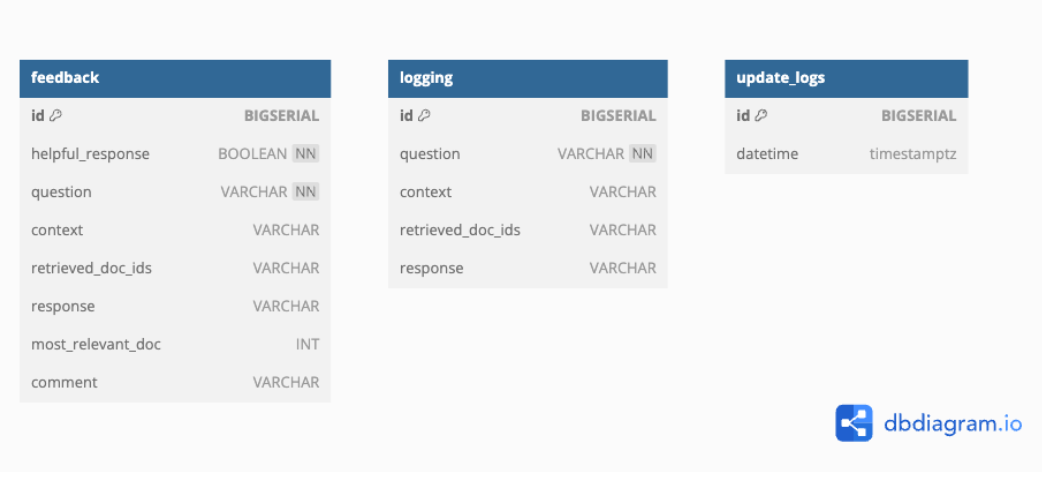
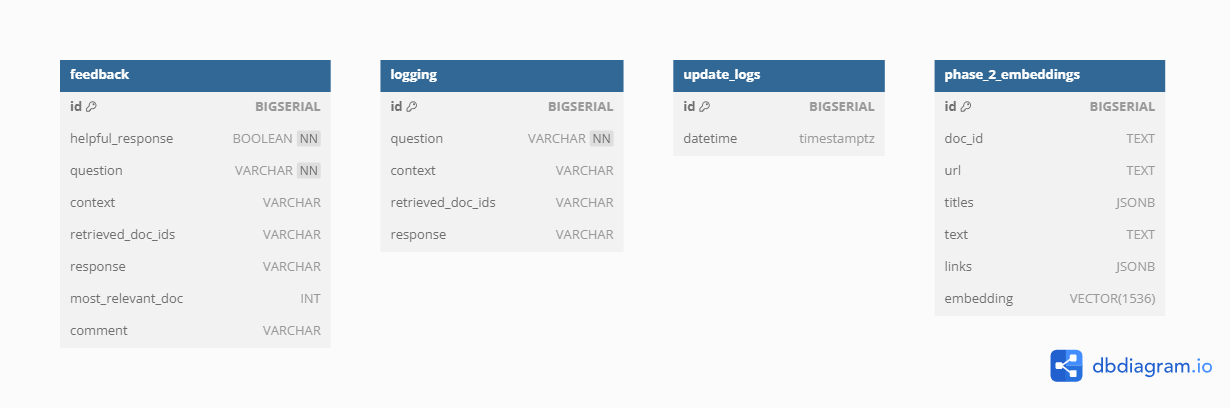
Added script to test feedback feature. Updated Architecture Diagram and steps. Updated Database Schema.

diff --git a/test_answer_feedback.py b/test_answer_feedback.py
@@ -1,0 +1,97 @@
+from selenium import webdriver
+from selenium.webdriver.common.by import By
+from selenium.webdriver.common.keys import Keys
+from selenium.webdriver.support.ui import WebDriverWait
+from selenium.webdriver.support import expected_conditions as EC
+from selenium.webdriver.chrome.service import Service
+from selenium.webdriver.chrome.options import Options
+from webdriver_manager.chrome import ChromeDriverManager
+import time
+import os
+
+# Setup WebDriver (Chrome in this example, but you can use any browser)
+service = Service(ChromeDriverManager().install())
+driver = webdriver.Chrome(service=service)
+
+# URL of the Flask application
+BASE_URL = "https://student-advising-demo.us-west-2.elasticbeanstalk.com"
+
+# Flag to not login again
+ALREADY_LOGGED_IN = False
+
+# List of questions to submit
+questions = [
+    "Can I add a minor in fourth year?",
+    "When do I have to apply to add a commerce minor?",
+    "I have an average of 54% and I have failed two courses this term. I haven't failed a course before this. Can I continue?",
+    "My average was 40%, what happens now?",
+    "I missed my exam because I had covid, what do I do?",
+    "I slept through my exam, what do I do?",
+    "Does ENGL 110 count for the arts requirement?",
+    "Can I take PSYC 120 for the arts requirement?",
+    "Does physics 100 count for the arts requirement?",
+    "CPSC 110 waitlist is full, what do I do?",
+    "I am in second year major chemistry, do I have to take MATH 221?",
+    "I am in second year major chemistry, do I need to take any biology courses?",
+    "Can I take CHEM 233 instead of CHEM 203?"
+]
+
+def submit_question_and_feedback(question):
+    global ALREADY_LOGGED_IN
+    
+    # Navigate to the home page
+    driver.get(BASE_URL)
+
+    # Login to the application if needed
+    if not ALREADY_LOGGED_IN:
+        WebDriverWait(driver, 10).until(EC.presence_of_element_located((By.NAME, "username"))).send_keys(os.environ["USERNAME"])
+        WebDriverWait(driver, 10).until(EC.presence_of_element_located((By.NAME, "password"))).send_keys(os.environ["PASSWORD"], Keys.RETURN)
+        ALREADY_LOGGED_IN = True
+
+    # Wait for the page to load
+    WebDriverWait(driver, 10).until(EC.presence_of_element_located((By.ID, "question")))
+
+    # Fill out the question form
+    question_textarea = driver.find_element(By.ID, "question")
+    question_textarea.send_keys(question)
+
+    # Submit the form
+    submit_button = driver.find_element(By.ID, "submit")
+    driver.execute_script("arguments[0].scrollIntoView(true);", submit_button)
+    WebDriverWait(driver, 10).until(EC.element_to_be_clickable((By.ID, "submit")))
+    driver.execute_script("arguments[0].click();", submit_button)
+
+    # Wait for the answer page to load
+    WebDriverWait(driver, 10).until(EC.presence_of_element_located((By.ID, "feedback-form")))
+
+    # Provide feedback
+    feedback_yes_button = driver.find_element(By.ID, "feedback-yes")
+    WebDriverWait(driver, 10).until(EC.element_to_be_clickable((By.ID, "feedback-yes")))
+    driver.execute_script("arguments[0].click();", feedback_yes_button)
+
+    # Wait for feedback form to be visible
+    WebDriverWait(driver, 5).until(EC.visibility_of_element_located((By.ID, "feedback-comments")))
+
+    # Fill out the feedback form
+    feedback_comments = driver.find_element(By.ID, "feedback-comments")
+    feedback_comments.send_keys("This feedback is submitted from a test script. Please ignore.")
+
+    # Select most relevant reference (if available)
+    feedback_reference_select = driver.find_element(By.NAME, "feedback-reference-select")
+    feedback_reference_select.send_keys(Keys.DOWN)  # Selecting the first option (None or first reference)
+
+    # Submit the feedback form
+    feedback_submit_button = driver.find_element(By.ID, "feedback-submit")
+    WebDriverWait(driver, 10).until(EC.element_to_be_clickable((By.ID, "feedback-submit")))
+    driver.execute_script("arguments[0].click();", feedback_submit_button)
+
+    # Optionally, wait to ensure feedback is submitted before continuing
+    time.sleep(2)
+
+def main():
+    for question in questions:
+        submit_question_and_feedback(question)
+    driver.quit()
+
+if __name__ == "__main__":
+    main()

diff --git a/docs/ArchitectureDesign.md b/docs/ArchitectureDesign.md
@@ -234,20 +234,48 @@ Various components of the infrastructure are placed inside a VPC for a more isol
 
 Information related to VPC networking specifications can be separately found [here](NetworkingSpecifications.md). Please familiarize yourself with the services in the architecture first before going through the Networking document mentioned above.
 
-**Question Answering**
+**Text Generation**
 
-1. A user (eg. a student) interacts with the web UI of the application hosted on AWS Elastic Beanstalk, and submits a query. 
+1. A user (eg. a student) interacts with the web UI of the application hosted on Amazon Elastic Beanstalk, and submits a query. The response collected from the model will be displayed back to the user.
+
 2. Using semantic search over the embedded documents in the Amazon RDS PostgreSQL database, the app fetches documents that are most closely related to the user’s query.
-    1. The diagram illustrates the case where documents are stored in Amazon RDS.
-3. The app makes an API Request to a model hosted on Amazon Bedrock, prompting it to respond to the user’s query using the retrieved documents from step 2 as context. The app then displays the response and the reference documents to the user in the web UI.
-4. The system logs all questions and answers, storing them in the Amazon RDS PostgreSQL database by making a request to an AWS Lambda Function as a proxy. Users can provide feedback to help improve the solution, which is also stored in the Amazon RDS PostgreSQL database using the AWS Lambda Function.
 
-**Data Processing**
+3. The app makes an API Request to a model hosted on Amazon Bedrock, prompting it to respond to the user’s query using the retrieved documents from Step 2 as context. The app then displays the response and the reference documents to the user in the web UI.
 
-5. When an Admin wants to configure the underlying settings of the data processing pipeline (eg. website scraping settings), they can modify and upload a config file to the predetermined folder on an Amazon S3 Bucket.
-6. The S3 Bucket triggers an invocation of an AWS Lambda Function to start a Task with the container cluster on Amazon ECS.
-7. This container cluster starts a Task that first performs web scraping of the configured websites, then processes the pages into extracts, and computes the vector embedding of the extracts. Finally, it stores the embeddings in the Amazon RDS PostgreSQL database (with pgvector support enabled). The Task is also scheduled to run every 4 months by default with a CRON-expression scheduler. An Admin/Developer can modify the schedule on-demand via the ECS console.
-    1. The diagram illustrates the case where documents are stored in Amazon RDS.
+4. The system logs all questions and answers, storing them in the Amazon RDS PostgreSQL database by making a request to an Amazon Lambda Function as a proxy. Users can provide feedback to help improve the solution, which is also stored in the Amazon RDS PostgreSQL database using the Amazon Lambda Function.
+
+5. Logs and feedback are stored in the Amazon RDS PostgreSQL database in their respective tables.
+
+**Lambda Functions**
+
+6. A request to an Amazon Lambda Function is made during the Inference Stack to create a user in the database with less privileges. This user’s credentials will be used in Step 2 to retrieve documents from the Amazon RDS PostgreSQL database. This user will only be allowed to create, update, and delete data without administrator powers for security purposes.
+
+7. The Lambda function obtains the secret from Amazon Secret Manger for credentials created in the Database Stack. It then creates the user with less privileges.
+
+8. A request to an Amazon Lambda Function is made during the Inference Stack to create the feedback, logging, and update logs tables if they do not already exist.
+
+9. The Lambda function obtains the secret from Amazon Secret Manger for credentials created in the Database Stack. It then creates the feedback, logging, and update logs tables.
+
+**Data Ingestion**
+
+10. An Administrator can navigate to Amazon Lambda using the Amazon Console. Here, the <project-name>-fetch_feedback-logs Lambda function should reside. The Administrator can then run the function by clicking on the Test tab and then clicking the Test button.
+
+11. The Lambda function retrieves the logs and feedback data from the Amazon RDS PostgreSQL database, formats the data into readable CSV files, and stores the formatted data into an S3 Bucket created during the Inference Stack under the documents folder.
+
+12. When an Admin wants to configure the underlying settings of the data processing pipeline (eg. website scraping settings), they can modify and upload a config file named “dump_config.json5”  to the document_scraping folder in the Amazon S3 Bucket created during the Inference Stack.
+
+13. The S3 Bucket triggers an Amazon Lambda Function to start tasks with the container cluster on Amazon ECS.
+
+14. This Lambda function triggers an ECS Task within a container cluster that performs the following operations:
+- Web Scraping: Scrapes configured websites for data.
+- Data Processing: Processes the scraped web pages into extracts.
+- Vector Embedding: Computes vector embeddings for the extracted data.
+- Storage: Stores the embeddings in an Amazon RDS PostgreSQL database with PGVector support enabled.
+The task is scheduled to run every 4 months using a CRON-expression scheduler. The schedule can be modified on-demand by an Admin/Developer via the ECS console.
+
+15. The Embedding Task on Amazon Elastic Container Service populates the Amazon RDS PostgreSQL database with vector embeddings.
+
+16. Amazon Elastic Container Registry (ECR) provides a secure, scalable, and reliable way to store, manage, and deploy Docker container images. By integrating ECR with Amazon Elastic Container Service (ECS), we ensure that the latest versions of our container images are always available for deployment. This connection allows ECS to automatically pull the required container images from ECR whenever a task or service is launched, ensuring seamless updates and efficient management of containerized applications.
 
 ## Database Schema
 
